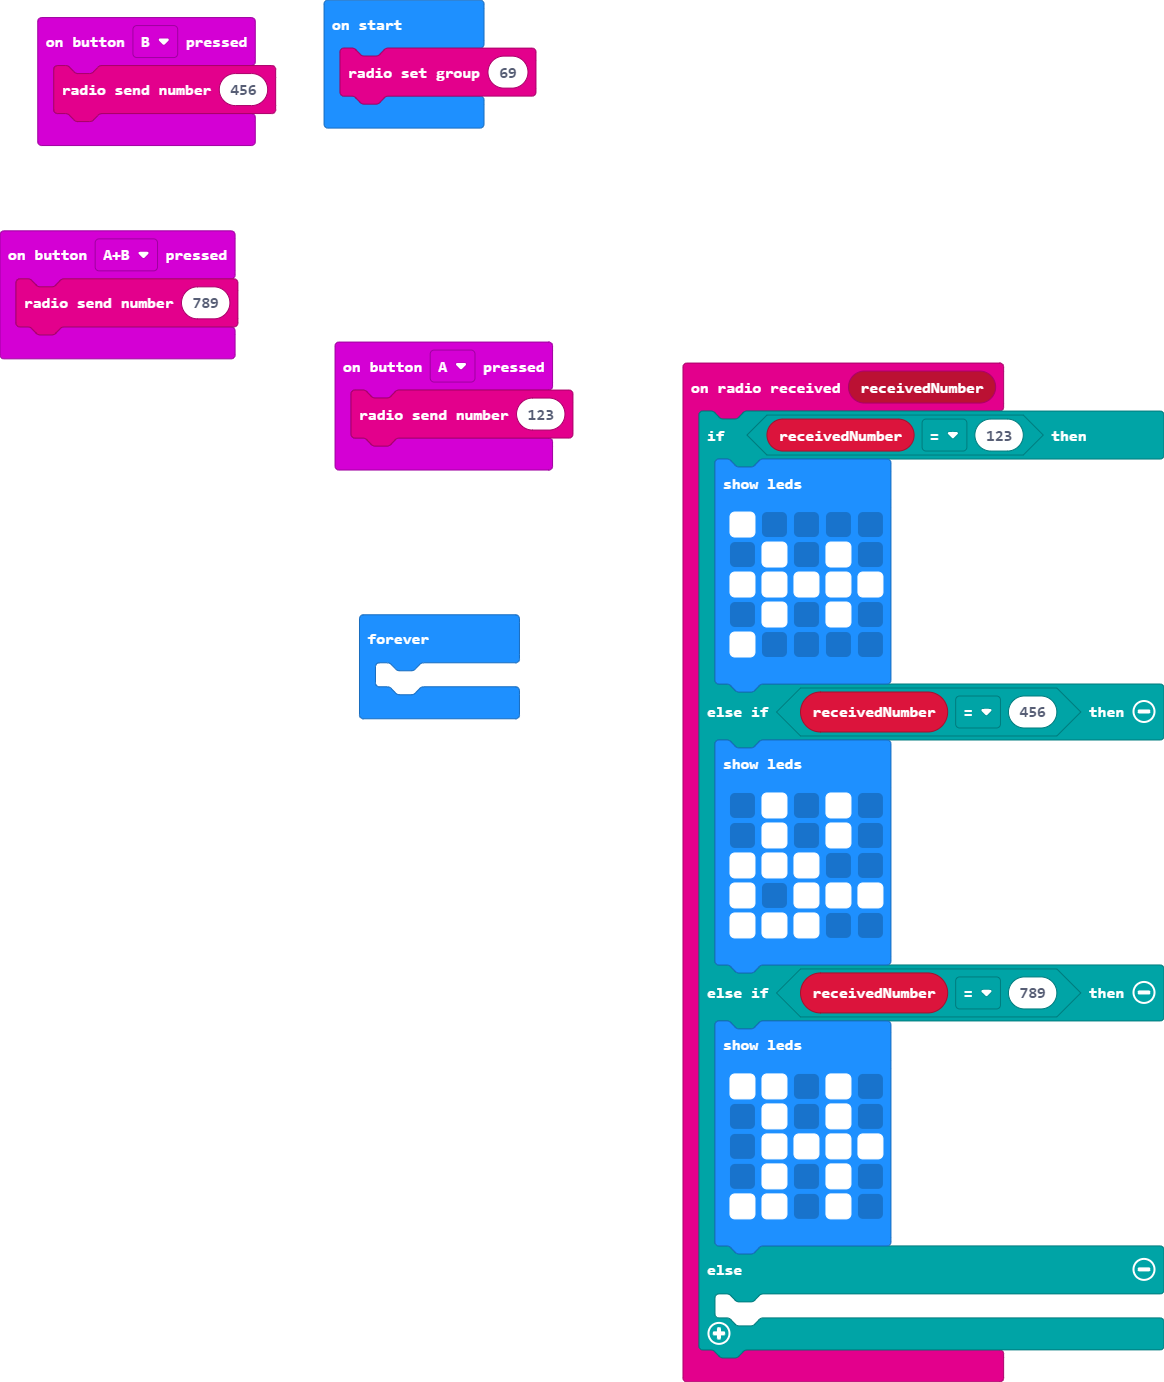
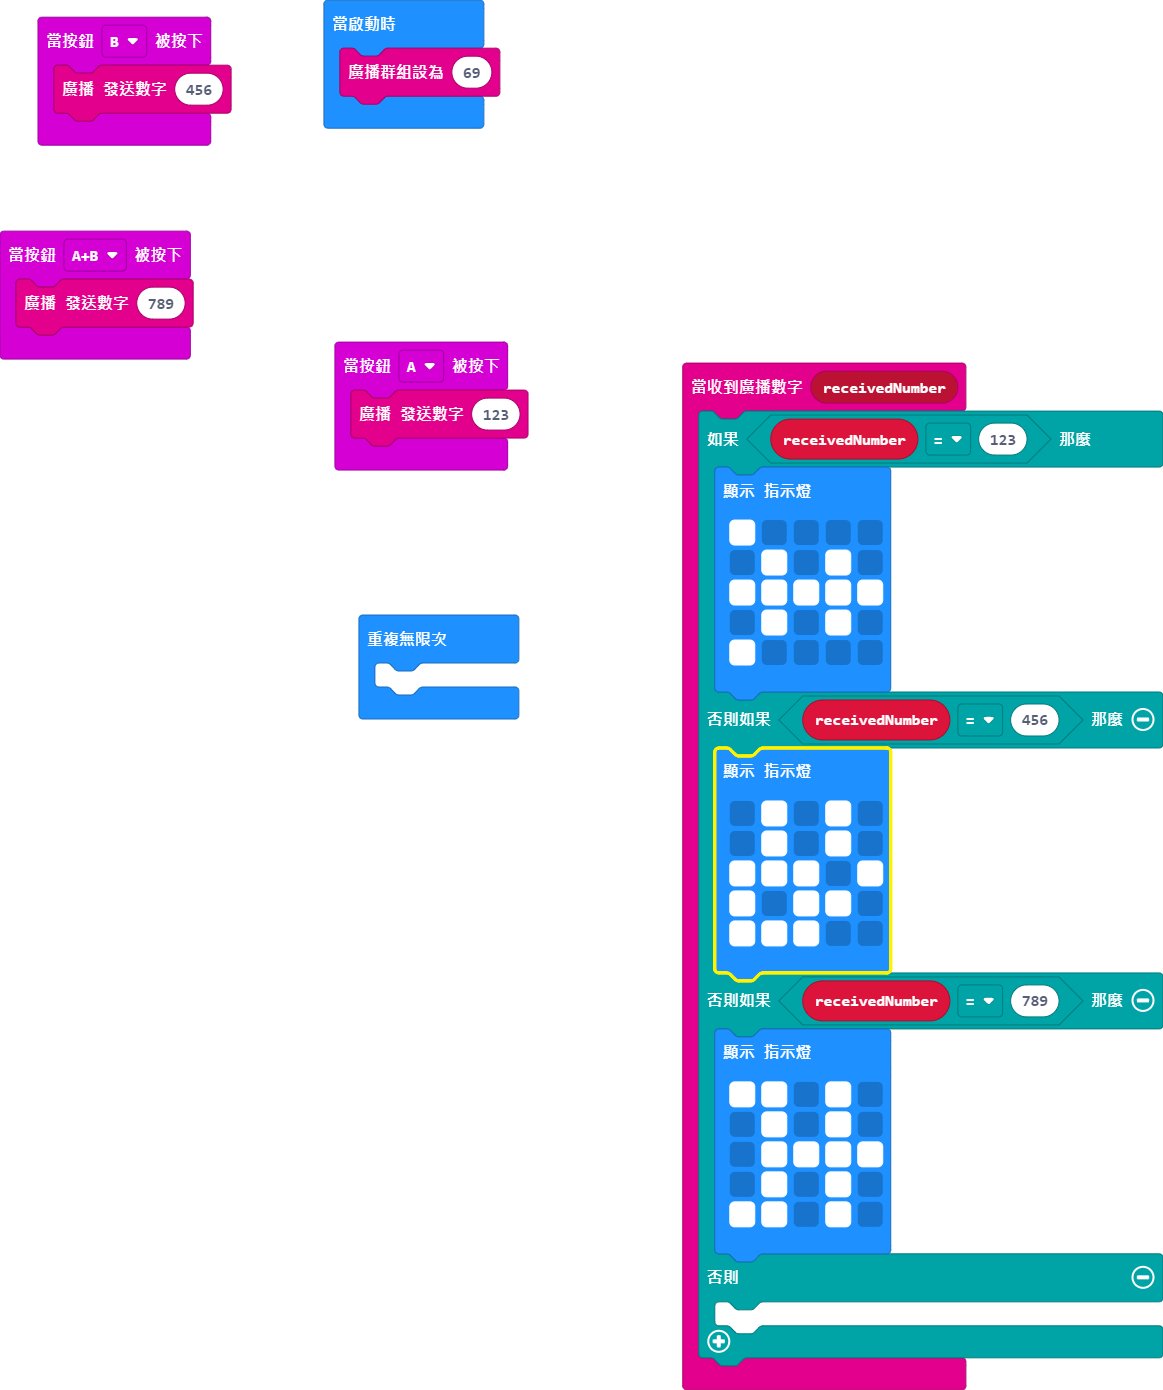
更新 main.blocks, main.ts

diff --git a/main.ts b/main.ts
@@ -11,8 +11,8 @@ radio.onReceivedNumber(function (receivedNumber) {
         basic.showLeds(`
             . # . # .
             . # . # .
-            # # # . .
-            # . # # #
+            # # # . #
+            # . # # .
             # # # . .
             `)
     } else if (receivedNumber == 789) {
